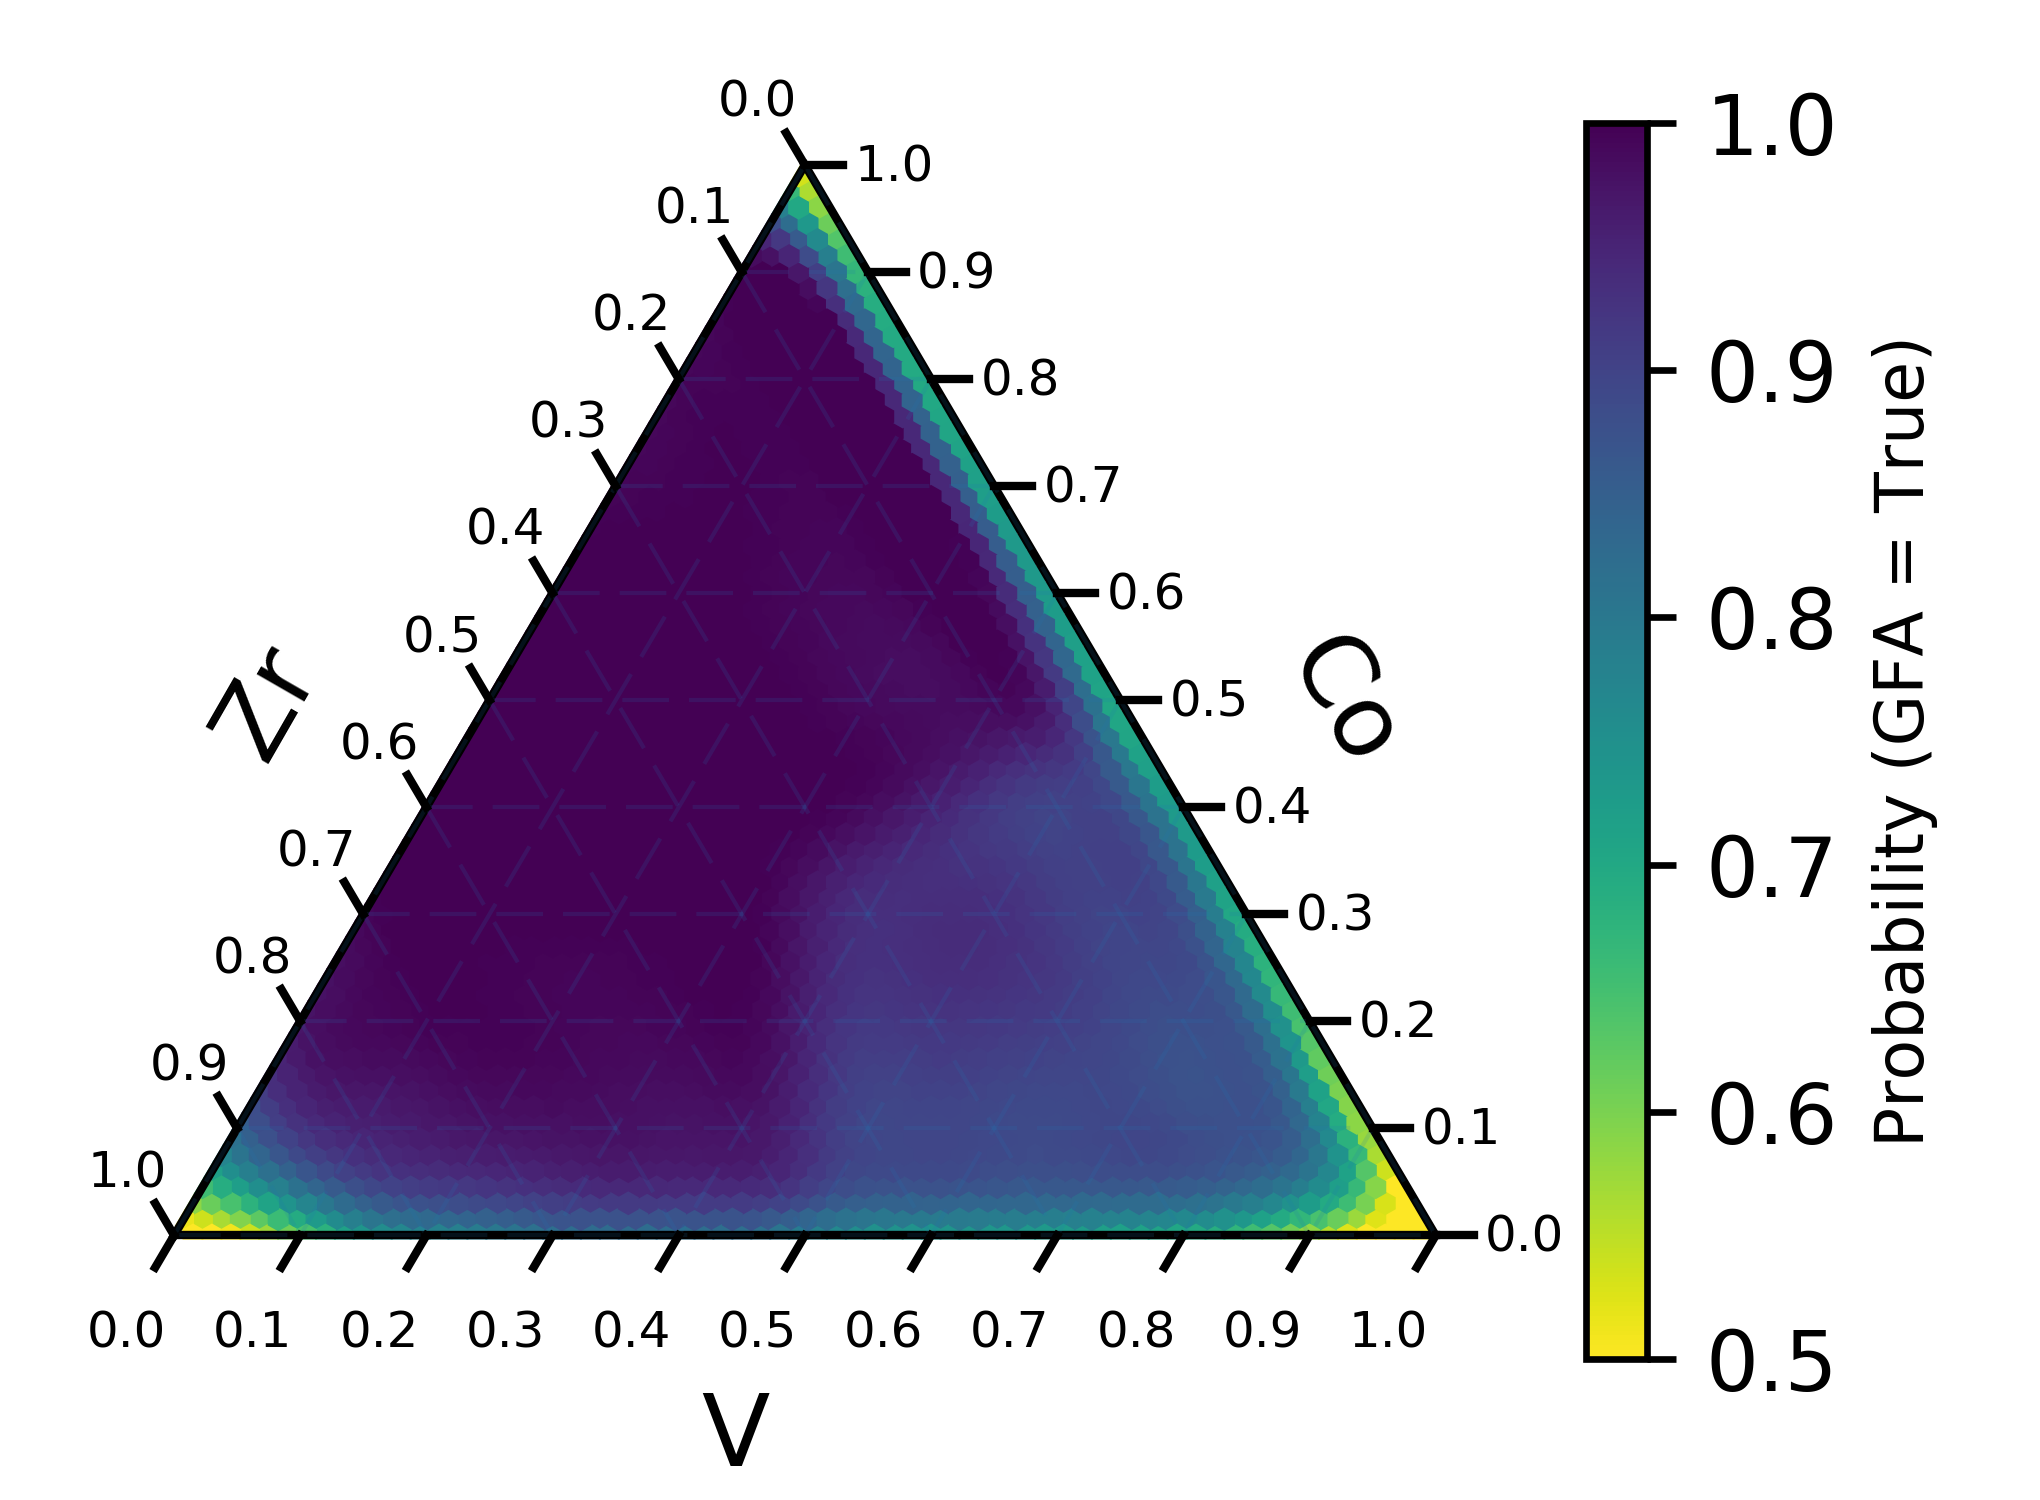
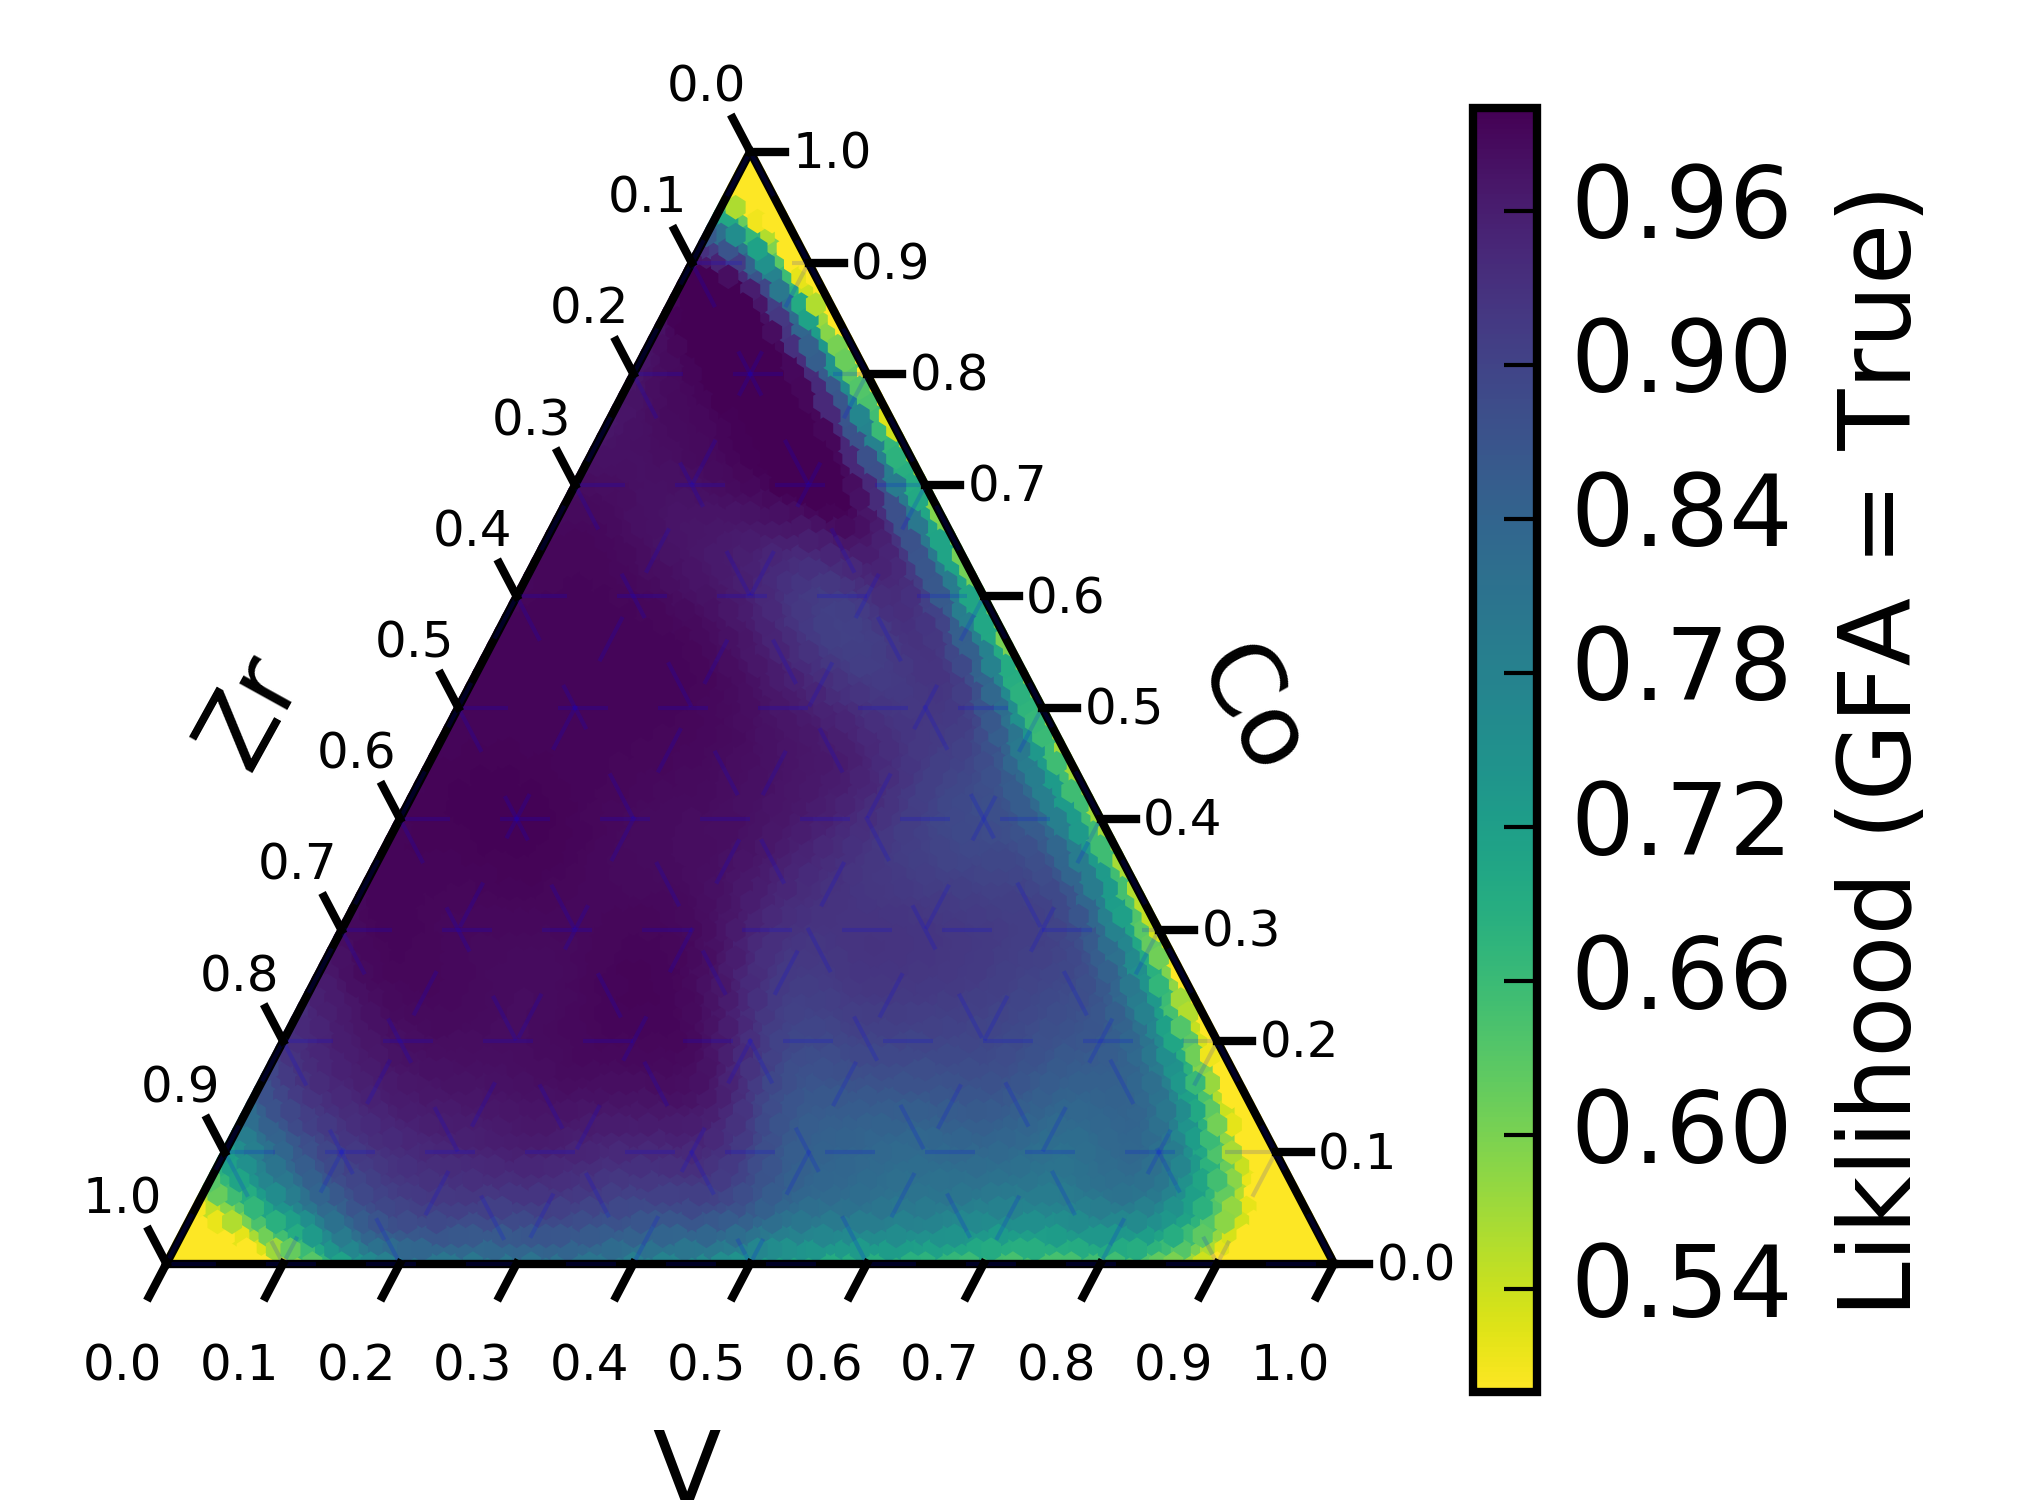
Updated figures to highlight >95% region

diff --git a/machine-learning/figures/ternary_helper.py b/machine-learning/figures/ternary_helper.py
@@ -3,14 +3,42 @@ __author__ = "Travis Williams"
 # Jason Hattrick-Simpers group
 # Starting Date: June, 2016
 
-import matplotlib.pyplot as plt
+from matplotlib import pyplot as plt
+from matplotlib import cm
+from matplotlib.colors import ListedColormap
 import numpy as np
 import os
 
 import ternary
 
+def make_cmap(base='viridis_r', scale_factor=1.5, cutoff=0.9, adjust_factor=0.1):
+    """Make a colormap that this scaled to emphasize the top of the range.
+    
+    Two kinds of emphasis:
+        1) Scaling the colormap to have a stronger gradient at the top
+        2) Making the colors below a treshold lighter
+        
+    Inputs:
+        base - str, base color map name
+        scale_factor - float, how much to exaggerate the range at the top (larger value -> larger scaling)
+        cutoff - float, treshold below which to lighten colors (0-1)
+        adjust_factor - float, how much to dampen colors (0-1)
+    Returns:
+        Colormap
+    """
+    
+    # Get the base colormap
+    v = cm.get_cmap('viridis_r')
+    
+    # Scale it
+    new_list = v(np.linspace(0,1,300) ** scale_factor)
+
+    # Apply cutoff
+    new_list[:int(len(new_list)*cutoff),:3] += (1 - new_list[:int(len(new_list)*0.9),:3]) * adjust_factor
+    return ListedColormap(new_list, name='%s_scaled'%base)
+
 def interpolation_ternary(data, tertitle='',  labelNames=('Species A','Species B','Species C'), scale=100,
-                       sv=False, svpth=r"C:/Users/Travis W/Pictures/", svflnm='Unnamed',
+                       sv=False, svpth=".", svflnm='Unnamed',
                        cbl='Scale', vmin=None, vmax=None, cmap='viridis', cb=True, style='h'):
     """
     Overview
@@ -57,7 +85,6 @@ def interpolation_ternary(data, tertitle='',  labelNames=('Species A','Species B
     y = data[:, 0]
     if cb:
         i = data[:, 3]
-
         for col in range(1, len(x)):
             d[(x[col], y[col])] = i[col]
     else:
@@ -77,7 +104,7 @@ def interpolation_ternary(data, tertitle='',  labelNames=('Species A','Species B
     tax.right_axis_label(labelNames[0], offset=0.17, **font)
 
     # Plot data, boundary, gridlines, and ticks
-    tax.heatmap(d, style=style, cmap=cmap, cbarlabel=cbl, vmin=vmin, vmax=vmax, colorbar=cb)
+    tax.heatmap(d, style=style, cmap=cmap, vmin=vmin, vmax=vmax, colorbar=False)
     tax.boundary(linewidth=1)
     tax.gridlines(multiple=10, linewidth=lnwdth, alpha=alpha, linestyle=lnsty)
     ticks = [round(i / float(scale), 1) for i in range(0, scale+1, 10)]
@@ -85,9 +112,24 @@ def interpolation_ternary(data, tertitle='',  labelNames=('Species A','Species B
 
     # Set chart title
     tax.set_title(tertitle)
+    
+    # Make a colorbar
+    i = ax.imshow([[5]], cmap=cmap, vmin=vmin, vmax=vmax)
+    cb = plt.colorbar(i)
+    
+    cb.set_label(cbl)
+    
+    ticks = np.arange(0.5, 1.0, 0.05)
+    cb.set_ticks(ticks)
+    cb.set_ticks = np.arange(0.5, 1.0, 0.05)
+    tick_labels = np.array(['%.1f'%t for t in ticks])
+    tick_labels[1::2] = ''
+    cb.set_ticklabels(tick_labels)
+    
+    cb.update_ticks()
 
     # Make chart pretty
-    tax.clear_matplotlib_ticks()
+    #tax.clear_matplotlib_ticks()
     tax._redraw_labels()
     plt.tight_layout()
 

diff --git a/machine-learning/figures/figure2c1.py b/machine-learning/figures/figure2c1.py
@@ -10,12 +10,11 @@ Plot the formation enthalpy predicted by our original model:
 # Load in libraries
 import numpy as np
 import matplotlib.pyplot as plt
-from matplotlib import cm
 from scipy import interpolate
 import imp
 import os
 import pandas as pd
-from ternary_helper import interpolation_ternary
+from ternary_helper import interpolation_ternary, make_cmap
 
 # Important variables to change
 path = os.path.join('..','0_original-model','plots')
@@ -35,8 +34,8 @@ probability = data['probability']
 probability_func = interpolate.Rbf(Co, V, Zr, probability, function='multiquadric',
                                        smooth=0.3)
 
-metal1_range = np.arange(0, 100, 1.25)
-metal2_range = np.arange(0, 100, 1.25)
+metal1_range = np.linspace(0, 100, 63)
+metal2_range = np.linspace(0, 100, 63)
 
 metal1 = []
 metal2 = []
@@ -56,11 +55,12 @@ for i in metal1_range:
                 continue
 
 
-# Make a new colormap that has alpha of 0.5 below 0.95%
-                
+# Make a new colormap that lightens colors color
+new_cmap = make_cmap()
+                    
 ternary_data = np.concatenate(([metal1],[metal2],[metal3],[probability_interpolate]), axis = 0)
 ternary_data = np.transpose(ternary_data)
 
 interpolation_ternary(ternary_data, tertitle='',  labelNames=('Co', 'V', 'Zr'), scale=100,
-                       sv=True, svpth=save_path, svflnm='Figure2.png',
-                       cbl='Liklihood (GFA = True)', vmin = 0.5, vmax = 1, cmap='viridis_r', cb=True, style='h')
+                       sv=True, svpth=save_path, svflnm='Figure2c1.png',
+                       cbl='Liklihood (GFA = True)', vmin = 0.5, vmax = 1, cmap=new_cmap, cb=True, style='h')

diff --git a/machine-learning/figures/figure4c.py b/machine-learning/figures/figure4c.py
@@ -1,7 +1,7 @@
 # -*- coding: utf-8 -*-
 """
 Plot the formation enthalpy predicted with 
-    - Trained on meltspinning and sputtering GFA
+    - Trained on meltspinning and sputtering GFA, with the new CoVZr data
     - Accounts for processing with "stacked" approach
     - Uses Yang and Laws theories
     
@@ -16,7 +16,7 @@ from scipy import interpolate
 import imp
 import os
 import pandas as pd
-from ternary_helper import interpolation_ternary
+from ternary_helper import interpolation_ternary, make_cmap
 
 # Important variables to change
 path = os.path.join('..','3_with-CoVZr-data','plots')
@@ -64,4 +64,4 @@ ternary_data = np.transpose(ternary_data)
 
 interpolation_ternary(ternary_data, tertitle='',  labelNames=('Co', 'V', 'Zr'), scale=100,
                        sv=True, svpth=save_path, svflnm='Figure4c.png',
-                       cbl='Liklihood (GFA = True)', vmin = 0.5, vmax = 1, cmap='viridis_r', cb=True, style='h')
+                       cbl='Liklihood (GFA = True)', vmin = 0.5, vmax = 1, cmap=make_cmap(), cb=True, style='h')

diff --git a/machine-learning/figures/figure5a.py b/machine-learning/figures/figure5a.py
@@ -16,7 +16,7 @@ from scipy import interpolate
 import imp
 import os
 import pandas as pd
-from ternary_helper import interpolation_ternary
+from ternary_helper import interpolation_ternary, make_cmap
 
 # Important variables to change
 path = os.path.join('..','2_with-processing-method','plots')
@@ -64,4 +64,4 @@ ternary_data = np.transpose(ternary_data)
 
 interpolation_ternary(ternary_data, tertitle='',  labelNames=('Fe', 'Nb', 'Ti'), scale=100,
                        sv=True, svpth=save_path, svflnm='Figure5a.png',
-                       cbl='Liklihood (GFA = True)', vmin = 0.5, vmax = 1, cmap='viridis_r', cb=True, style='h')
+                       cbl='Liklihood (GFA = True)', vmin = 0.5, vmax = 1, cmap=make_cmap(), cb=True, style='h')

diff --git a/machine-learning/figures/figure4b.py b/machine-learning/figures/figure4b.py
@@ -16,7 +16,7 @@ from scipy import interpolate
 import imp
 import os
 import pandas as pd
-from ternary_helper import interpolation_ternary
+from ternary_helper import interpolation_ternary, make_cmap
 
 # Important variables to change
 path = os.path.join('..','2_with-processing-method','plots')
@@ -64,4 +64,4 @@ ternary_data = np.transpose(ternary_data)
 
 interpolation_ternary(ternary_data, tertitle='',  labelNames=('Co', 'V', 'Zr'), scale=100,
                        sv=True, svpth=save_path, svflnm='Figure4b.png',
-                       cbl='Liklihood (GFA = True)', vmin = 0.5, vmax = 1, cmap='viridis_r', cb=True, style='h')
+                       cbl='Liklihood (GFA = True)', vmin = 0.5, vmax = 1, cmap=make_cmap(), cb=True, style='h')

diff --git a/machine-learning/figures/figure5b.py b/machine-learning/figures/figure5b.py
@@ -16,7 +16,7 @@ from scipy import interpolate
 import imp
 import os
 import pandas as pd
-from ternary_helper import interpolation_ternary
+from ternary_helper import interpolation_ternary, make_cmap
 
 # Important variables to change
 path = os.path.join('..','3_with-CoVZr-data','plots')
@@ -64,4 +64,4 @@ ternary_data = np.transpose(ternary_data)
 
 interpolation_ternary(ternary_data, tertitle='',  labelNames=('Fe', 'Nb', 'Ti'), scale=100,
                        sv=True, svpth=save_path, svflnm='Figure5b.png',
-                       cbl='Liklihood (GFA = True)', vmin = 0.5, vmax = 1, cmap='viridis_r', cb=True, style='h')
+                       cbl='Liklihood (GFA = True)', vmin = 0.5, vmax = 1, cmap=make_cmap(), cb=True, style='h')
